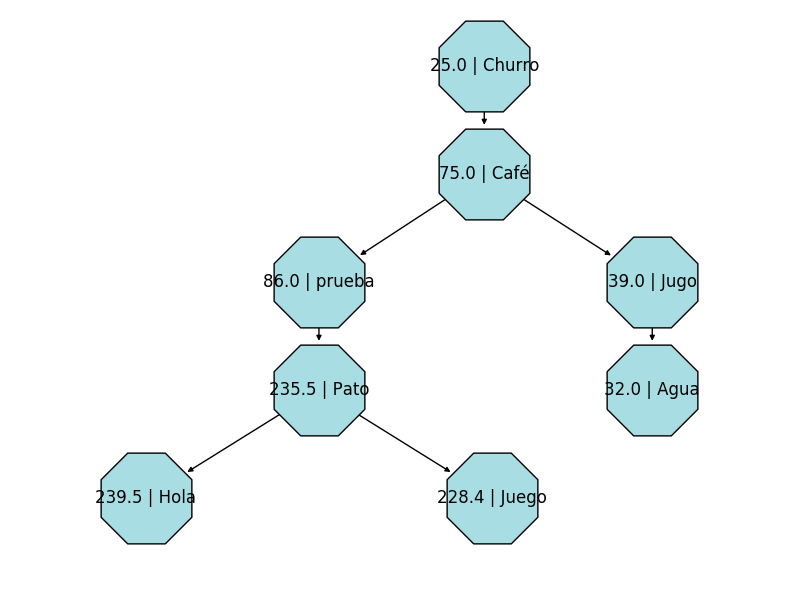
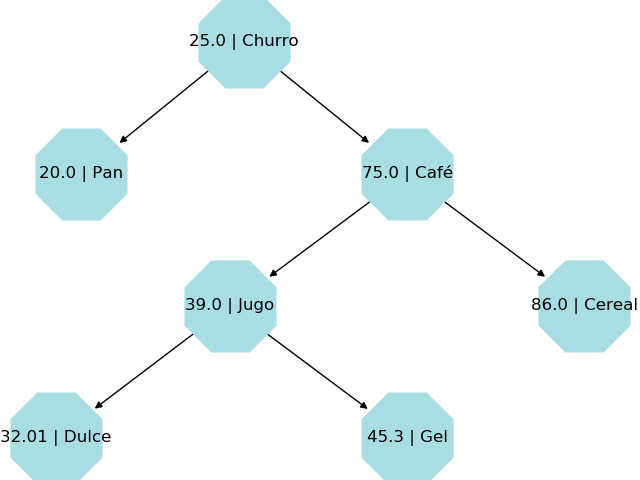
Listo

diff --git a/Unidad I/PAC III 2019/Proyecto 1/Python/Nucleo/Arbol/ABB2.py b/Unidad I/PAC III 2019/Proyecto 1/Python/Nucleo/Arbol/ABB2.py
@@ -57,14 +57,14 @@ class BST1:
 
     def toMapInner1(self,H,current):
 
-        if current.right:
-            H.add_node("%s | %s"%(current.right.value, current.right.name))
-            H.add_edge("%s | %s"%(current.value,current.name), "%s | %s"%(current.right.value, current.right.name))
-            self.toMapInner1(H,current.right)
         if current.left:
             H.add_node("%s | %s"%(current.left.value, current.left.name))
             H.add_edge("%s | %s"%(current.value,current.name), "%s | %s"%(current.left.value, current.left.name))
             self.toMapInner1(H,current.left)
+        if current.right:
+            H.add_node("%s | %s"%(current.right.value, current.right.name))
+            H.add_edge("%s | %s"%(current.value,current.name), "%s | %s"%(current.right.value, current.right.name))
+            self.toMapInner1(H,current.right)
 
             
         return True

diff --git a/Unidad I/PAC III 2019/Proyecto 1/Python/Nucleo/Arbol/ABB1.py b/Unidad I/PAC III 2019/Proyecto 1/Python/Nucleo/Arbol/ABB1.py
@@ -42,8 +42,7 @@ class BST:
         images = plt.figure()
 
         self.toMap(G)
-        nlist = [node for node in G.nodes()]
-        elist = [edge for edge in G.edges()]
+        
         write_dot(G,'Memoria/test.dot')
         pos = graphviz_layout(G, prog='dot')
         nx.draw(G,pos, with_labels=True, arrows=True, node_size=5000,node_color='#a8dee3',node_shape='8')
